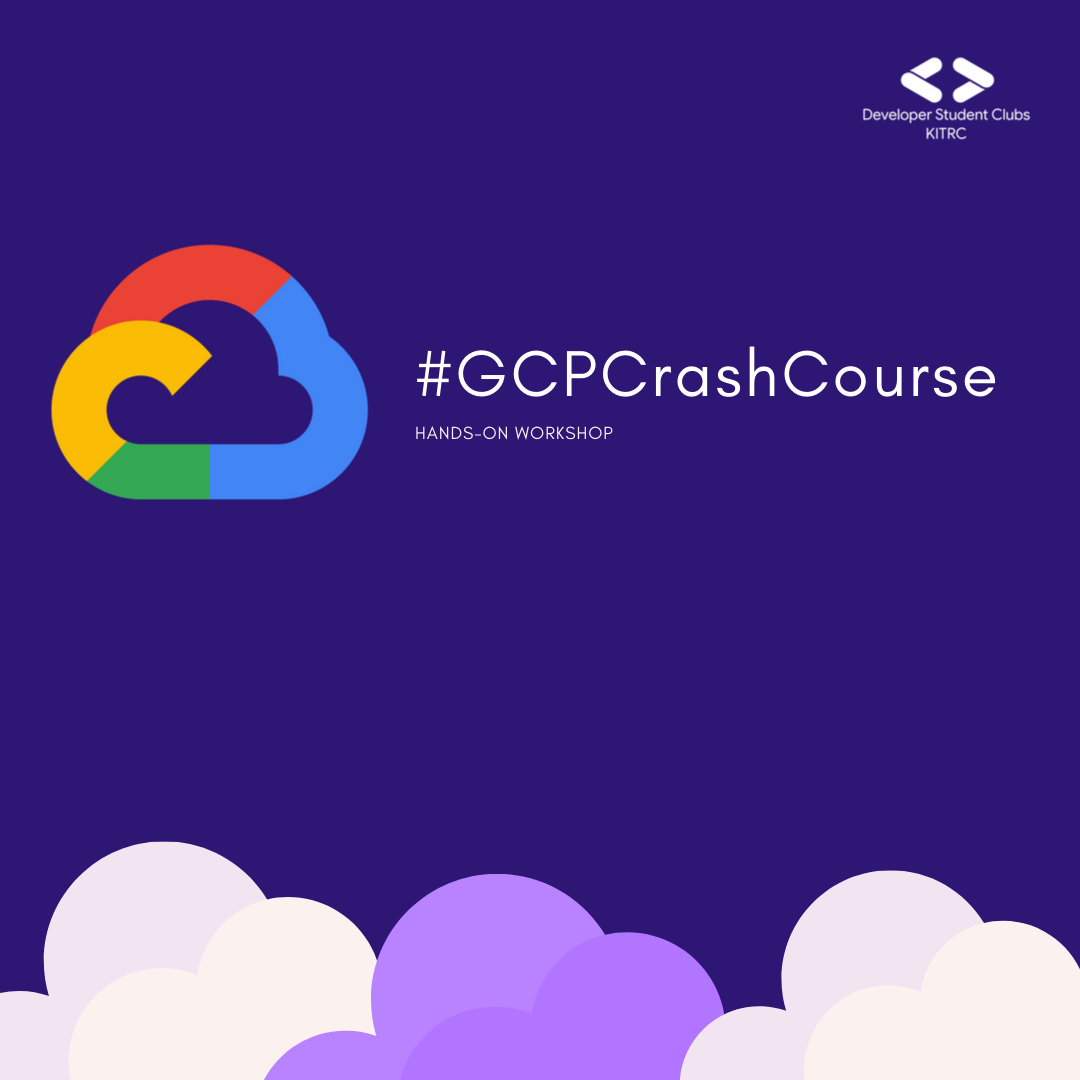
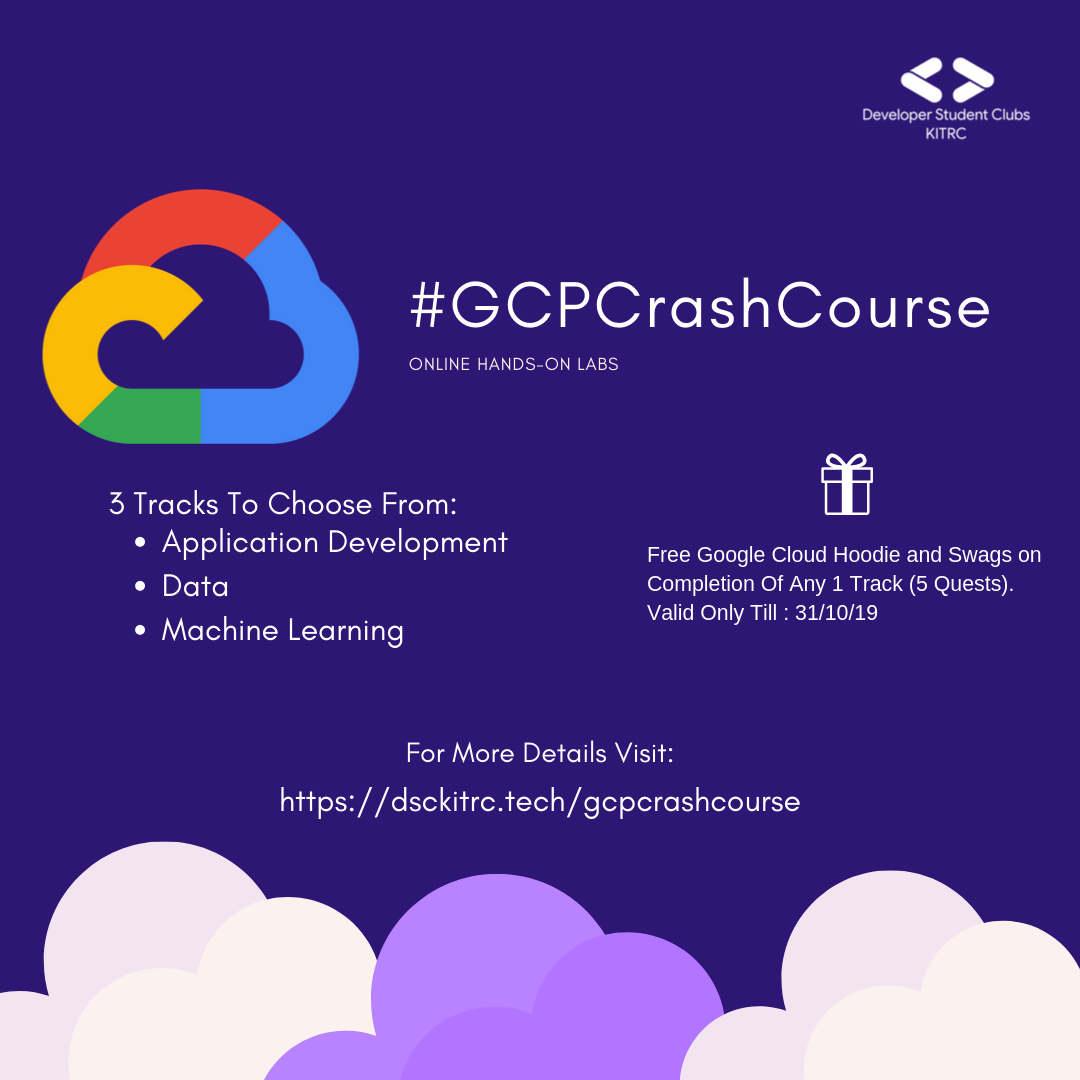
gcpcrashcourse

diff --git a/gcpcrashcourse.html b/gcpcrashcourse.html
@@ -34,14 +34,16 @@
 			</a>
 			<a href="#" data-target="mobile-demo" class="sidenav-trigger"><i class="material-icons black-text">menu</i></a>
 			<ul class="right hide-on-med-and-down">
-				<li><a href="#overview" class="black-text">Home</a></li>
+				<li><a href="index.html" class="black-text">Home</a></li>
+				<li><a href="http://bit.ly/DKSlack" class="black-text">For Queries</a></li>
 			</ul>
 		</div>
 	</nav>
 </div>
 
 <ul class="sidenav" id="mobile-demo">
-	<li><a href="#participate">Home</a></li>
+	<li><a href="index.html">Home</a></li>
+	<li><a href="http://bit.ly/DKSlack">For Queries</a></li>
 </ul>
 
 <div class="fixed-action-btn">
@@ -88,21 +90,21 @@
 
 			<div class="col s12 m6">
 			  <div class="icon-block">
-				<h2 class="center blue-text"><i class="material-icons">filter_1</i></h2>
-				<h5 class="center">Step 1: Choose A Track</h5>
+				<h2 class="center green-text"><i class="material-icons">filter_1</i></h2>
+				<h5 class="center" style="color: green">Step 1: Choose A Track</h5>
 	
 				<p class="light center">You can choose to complete either one track or multiple tracks as per your preference. </p>
 				<p class="light center"> 
-					<a href="#quests" style="color: blue">Application Development</a> <br>
-					<a href="#quests" style="color: blue">Data</a> <br> 
-					<a href="#quests" style="color: blue">Machine Learning </a> </p>
+					<a href="#!" style="color: black">Application Development</a> <br>
+					<a href="#!" style="color: black">Data</a> <br> 
+					<a href="#!" style="color: black">Machine Learning </a> </p>
 			  </div>
 			</div>
 	
 			<div class="col s12 m6">
 			  <div class="icon-block">
 				<h2 class="center red-text"><i class="material-icons">filter_2</i></h2>
-				<h5 class="center">Step 2: Sign Up For Free Credits</h5>
+				<h5 class="center" style="color: red">Step 2: Sign Up For Free Credits</h5>
 	
 				<p class="light center"> Sign up on <a href="https://www.qwiklabs.com" target="_blank" style="color: blue">Qwiklabs</a> using the following links:</p>
 				<p class="light center"> Application Development: <a href="https://google.qwiklabs.com/quests/37?qlcampaign=6p-EDU-DSC-GCC-46" target="_blank" style="color: blue">Links</a>
@@ -115,7 +117,7 @@
 			<div class="col s12 m6">
 			  <div class="icon-block">
 				<h2 class="center orange-text"><i class="material-icons">filter_3</i></h2>
-				<h5 class="center">Step 3: Complete Quests</h5>
+				<h5 class="center" style="color: orange">Step 3: Complete Quests</h5>
 	
 				<p class="light center">Complete all 5 Quests of the track you chose to pursue.</p>
 				<p class="light center"> 
@@ -128,8 +130,8 @@
 	
 			<div class="col s12 m6">
 			  <div class="icon-block">
-				<h2 class="center green-text"><i class="material-icons">filter_4</i></h2>
-				<h5 class="center">Step 4: Fill Completion Form</h5>
+				<h2 class="center purple-text"><i class="material-icons">filter_4</i></h2>
+				<h5 class="center" style="color: purple">Step 4: Fill Completion Form</h5>
 	
 				<p class="light center">After you have completed any one of the track (1 Track = 5 Quests), please fill the completion form to receive hoodie and swags.</p>
 				<p class="light center"> Completion Form: <a href="https://docs.google.com/forms/d/e/1FAIpQLSeqJBb8gYmgeXiOgqktotkTj50cVFU0c7iPJkWZQW68_CSCZQ/viewform" target="_blank" style="color: blue">Link</a></p>
@@ -156,10 +158,10 @@
 						  <br>
 						  <div class="collection">
 								<a href="https://www.qwiklabs.com/quests/26?catalog_rank=%7B%22rank%22%3A9%2C%22num_filters%22%3A4%2C%22has_search%22%3Afalse%7D" class="collection-item" target="_blank">Deploying Applications</a>
-								<a href="https://www.qwiklabs.com/quests/37?catalog_rank=%7B%22rank%22%3A8%2C%22num_filters%22%3A4%2C%22has_search%22%3Afalse%7D" class="collection-item" target="_blank">Baseline: Deploy & Develop</a>
 								<a href="https://www.qwiklabs.com/quests/39?catalog_rank=%7B%22rank%22%3A18%2C%22num_filters%22%3A4%2C%22has_search%22%3Afalse%7D" class="collection-item" target="_blank">Websites and Web Applications</a>
 								<a href="https://www.qwiklabs.com/quests/67?catalog_rank=%7B%22rank%22%3A4%2C%22num_filters%22%3A4%2C%22has_search%22%3Afalse%7D" class="collection-item" target="_blank">Cloud Development</a>
 								<a href="https://www.qwiklabs.com/quests/54?catalog_rank=%7B%22rank%22%3A7%2C%22num_filters%22%3A4%2C%22has_search%22%3Afalse%7D" class="collection-item" target="_blank">Exploring APIs</a>
+								<a href="https://www.qwiklabs.com/quests/37?catalog_rank=%7B%22rank%22%3A8%2C%22num_filters%22%3A4%2C%22has_search%22%3Afalse%7D" class="collection-item" target="_blank">Baseline: Deploy & Develop</a>
 							</div>
 						</li>
 						<li class="collection-item avatar">
@@ -245,8 +247,8 @@
 	<div class="container">
 			<div class="section">
 					
-				<div class="col l2 s12" id="qwiklabsintro">
-					<h3 class="" style="color:darkblue">Some Introductory Videos</h3>
+				<div class="col l2 s12" id="videos">
+					<h3 class="" style="color:darkblue">Some Useful Videos</h3>
 				</div>
 
 				<br>

diff --git a/events.html b/events.html
@@ -214,17 +214,18 @@
                   <img src="img/events/upcomingevents/crashcourse.png">
                 </div>
                 <div class="card-content">
-                  <p>A Hands-On Workshop on Google Cloud Platform</p>
+                  <p>Online Hands-On Labs on Google Cloud Platform</p>
+                  <p>For more details visit #GCPCrashCourse Webpage. Link Below.</p>
                   <!-- <p><b>Event Details:</b></p>
                   <p>27 September, 2019</p>
                   <p>1:15 PM</p>
                   <p>Seminar Hall</p>
                   <p>Kalol Institute Of Technology and Research Center</p>
                   <br> -->
-                  <p><h6 style="color:red;">LIMITED SEATINGS</h1></p>
+                  <p><h6 style="color:red;">OPEN FOR ALL STUDENTS</h1></p>
                 </div>
                 <div class="card-action">
-                  <button class="btn waves-effect blue darken-3"><a href="#!" class="white-text">Registration Open Soon</a></button>
+                        <a class="waves-effect waves-light btn-small" href="gcpcrashcourse.html"><i class="material-icons left">call_missed_outgoing</i>Learn More</a>
                 </div>
               </div>
         </div>
@@ -238,7 +239,7 @@
                   <p><h6 style="color:red;">LIMITED SEATINGS</h1></p>
                 </div>
                 <div class="card-action">
-                  <button class="btn waves-effect blue darken-3"><a href="#!" class="white-text">Registration Open Soon</a></button>
+                        <a class="waves-effect waves-light btn-small blue" href="#!"><i class="material-icons left">how_to_vote</i>Registration Open Soon</a>
                 </div>
               </div>
         </div>
